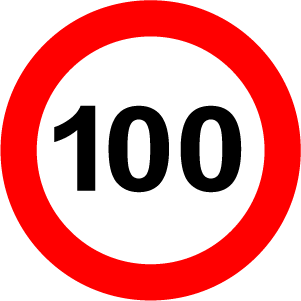
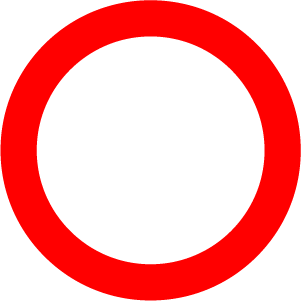
Multiple speeds in sli regular alert support

Changed region(s): [[0.598, 0.3289, 0.8073, 0.6578], [0.3588, 0.3289, 0.5681, 0.6578], [0.1794, 0.3289, 0.3289, 0.6578]]

diff --git a/main.qml b/main.qml
@@ -33,6 +33,22 @@ ApplicationWindow {
             [Alert.HMW_GR] = "  ",
             ]
 
+    property var sli_reg_arr: [      
+        [Alert.SLI_REG_10]  =  "10",
+        [Alert.SLI_REG_20]  =  "20",
+        [Alert.SLI_REG_30]  =  "30",
+        [Alert.SLI_REG_40]  =  "40",
+        [Alert.SLI_REG_50]  =  "50",
+        [Alert.SLI_REG_60]  =  "60",
+        [Alert.SLI_REG_70]  =  "70",
+        [Alert.SLI_REG_80]  =  "80",
+        [Alert.SLI_REG_90]  =  "90",
+        [Alert.SLI_REG_100] = "100",
+        [Alert.SLI_REG_110] = "110",
+        [Alert.SLI_REG_120] = "120",
+        [Alert.SLI_REG_130] = "130",
+        [Alert.SLI_REG_140] = "140",
+    ]
 
 
 
@@ -130,11 +146,23 @@ ApplicationWindow {
                     objectName: "ALERT_SLI_REGULAR"
                     property int layer_pri: 0
                     property int canEntityType: Alert.ALERT_SLI_REGULAR
+                    property int canEntityArg: Alert.SLI_REG_100
 
                     x: left_panel.width/8; width: left_panel.width*3/4;
                     fillMode: Image.PreserveAspectFit;
                     source:"qrc:/resources/EWAlerts/sli.png";
                     rotation: 0;
+
+                    Text {
+                        text: page.sli_reg_arr[parent.canEntityArg]
+                        font.family: "Arial"
+                        font.pointSize: 10
+                        font.bold: true
+                        color: "black"
+                        opacity: 1
+                        anchors.horizontalCenter: parent.horizontalCenter
+                        anchors.verticalCenter : parent.verticalCenter
+                    }
                 }
 
                 //>>>>>>>>>>>>>>>>>>>>>>>>>>>>>>>>>>>>>>>>>>>>>
@@ -302,12 +330,24 @@ ApplicationWindow {
                         objectName: "ALERT_SLI_REGULAR_MAIN"
                         property int layer_pri: 1
                         property int canEntityType: Alert.ALERT_SLI_REGULAR
+                        property int canEntityArg: Alert.SLI_REG_100
 
                         visible: false;
                         x: main_panel.width/8; y: 20; width: main_panel.width*3/4;
                         fillMode: Image.PreserveAspectFit;
                         source:"qrc:/resources/EWAlerts/sli.png";
                         rotation: 0;
+
+                        Text {
+                            text: page.sli_reg_arr[parent.canEntityArg]
+                            font.family: "Arial"
+                            font.pointSize: 40
+                            font.bold: true
+                            color: "black"
+                            opacity: 1
+                            anchors.horizontalCenter: parent.horizontalCenter
+                            anchors.verticalCenter : parent.verticalCenter
+                        }
 
 
                         Timer {

diff --git a/canmanager.cpp b/canmanager.cpp
@@ -313,48 +313,96 @@ void CanManager::beamStateParseAndProcess(struct can_frame * prev, struct can_fr
 
 }
 
-
-void CanManager::sliSingleStateParseAndProcess(struct can_frame * prev, struct can_frame * recv, quint8 signType, AlertTypes::EnAlert alert)
+void CanManager::sliStateParseAndProcess(struct can_frame * prev, struct can_frame * recv)
 {
-
+    //deactivation:
     bool is_sign_in_prev =  false;
     bool is_sign_in_recv =  false;
 
-    quint8 sign_byte_prev;
-    quint8 sign_byte_recv;
+    quint8 sign_prev;
+    quint8 sign_recv;
 
+    quint8 supp_prev;
+    quint8 supp_recv;
 
-    for (size_t i = 0; i < 4; i++)
+    size_t i;
+    size_t j;
+
+    //deactivation
+    for (i = 0; i < 4; i++)
     {
 
-        sign_byte_prev = prev->data[i*2];
-        sign_byte_recv = recv->data[i*2];
+        is_sign_in_recv = false;
 
-        //supp_byte = frame->data[1+i*2];
-
-        if (signType == sign_byte_prev)
+        for (j = 0; j < 4; j++)
         {
-          is_sign_in_prev = true;
+
+            sign_prev = prev->data[i*2];
+            sign_recv = recv->data[j*2];
+
+            supp_prev = prev->data[1+i*2];
+            supp_recv = recv->data[1+j*2];
+
+            if (sign_prev == sign_recv && supp_prev == supp_recv)
+            {
+                is_sign_in_recv = true;
+            }
+
         }
 
-        if (signType == sign_byte_recv)
+        if(!is_sign_in_recv)
         {
-          is_sign_in_recv = true;
+            //deactivate:
+            for (i = 0;i < sli_alerts_table_size; i++)
+            {
+                if(sign_prev == sli_alerts_table[i].hexcode)
+                {
+                   mydisplays->deactivate(sli_alerts_table[i].alert);
+                   i = sli_alerts_table_size;
+                }
+            }
+
         }
     }
 
-    if (is_sign_in_recv&&!is_sign_in_prev)
-    {
-        mydisplays->activate(alert);
-    }
 
-    if (is_sign_in_prev&&!is_sign_in_recv)
+
+    //activation:
+    for (j = 0; j < 4; j++)
     {
-         mydisplays->deactivate(alert);
+
+        is_sign_in_prev = false;
+
+        for (i = 0; i < 4; i++)
+        {
+
+            sign_prev = prev->data[i*2];
+            sign_recv = recv->data[j*2];
+
+            supp_prev = prev->data[1+i*2];
+            supp_recv = recv->data[1+j*2];
+
+            if (sign_prev == sign_recv && supp_prev == supp_recv)
+            {
+                is_sign_in_prev = true;
+            }
+
+        }
+
+        if(!is_sign_in_prev)
+        {
+            //activate:
+            for (i = 0;i < sli_alerts_table_size; i++)
+            {
+                if(sign_recv == sli_alerts_table[i].hexcode)
+                {
+                   mydisplays->activate(sli_alerts_table[i].alert, sli_alerts_table[i].value);
+                   i = sli_alerts_table_size;
+                }
+            }
+        }
     }
 }
-
-
 
 void CanManager::parse_frame(struct can_frame * frame)
 {
@@ -492,9 +540,7 @@ void CanManager::parse_frame(struct can_frame * frame)
 
         case can_id_sli:
 
-            sliSingleStateParseAndProcess(preframe,frame, 0x9, AlertTypes::ALERT_SLI_REGULAR);
-
-            sliSingleStateParseAndProcess(preframe,frame, 0xE, AlertTypes::ALERT_FORWARD);
+            sliStateParseAndProcess(preframe,frame);
 
             break;
     }

diff --git a/defs.h b/defs.h
@@ -1,7 +1,7 @@
 #ifndef DEFS_H
 #define DEFS_H
 
-#include <stdint.h>
+#include <alerttypes.h>
 
 #define CAN_MESSAGES_TYPES_NUM 2
 
@@ -33,7 +33,7 @@ can_id_right =  3,
 typedef struct can_id_values_table_row_s
 {
   can_id_t mnemonic;
-  uint32_t value;
+  quint32 value;
 } can_id_values_table_row_t;
 
 
@@ -103,6 +103,37 @@ enum HW_Warn_level_e
     HW_Alert  = 0x3,
 
 };
+
+typedef struct sli_alerts_table_row_s
+{
+   quint8 hexcode;
+   AlertTypes::EnAlert alert;
+   quint8 value;
+}
+sli_alerts_table_row_t;
+
+static const sli_alerts_table_row_t sli_alerts_table[] =
+{
+    {0x0, AlertTypes::ALERT_SLI_REGULAR, (quint8)AlertTypes::SLI_REG_10},
+    {0x1, AlertTypes::ALERT_SLI_REGULAR, (quint8)AlertTypes::SLI_REG_20},
+    {0x2, AlertTypes::ALERT_SLI_REGULAR, (quint8)AlertTypes::SLI_REG_30},
+    {0x3, AlertTypes::ALERT_SLI_REGULAR, (quint8)AlertTypes::SLI_REG_40},
+    {0x4, AlertTypes::ALERT_SLI_REGULAR, (quint8)AlertTypes::SLI_REG_50},
+    {0x5, AlertTypes::ALERT_SLI_REGULAR, (quint8)AlertTypes::SLI_REG_60},
+    {0x6, AlertTypes::ALERT_SLI_REGULAR, (quint8)AlertTypes::SLI_REG_70},
+    {0x7, AlertTypes::ALERT_SLI_REGULAR, (quint8)AlertTypes::SLI_REG_80},
+    {0x8, AlertTypes::ALERT_SLI_REGULAR, (quint8)AlertTypes::SLI_REG_90},
+    {0x9, AlertTypes::ALERT_SLI_REGULAR, (quint8)AlertTypes::SLI_REG_100},
+    {0xA, AlertTypes::ALERT_SLI_REGULAR, (quint8)AlertTypes::SLI_REG_110},
+    {0xB, AlertTypes::ALERT_SLI_REGULAR, (quint8)AlertTypes::SLI_REG_120},
+    {0xC, AlertTypes::ALERT_SLI_REGULAR, (quint8)AlertTypes::SLI_REG_130},
+    {0xD, AlertTypes::ALERT_SLI_REGULAR, (quint8)AlertTypes::SLI_REG_140},
+
+    {0xE, AlertTypes::ALERT_FORWARD    , (quint8)                   0x00},
+};
+
+static const size_t sli_alerts_table_size = sizeof(sli_alerts_table)/sizeof(sli_alerts_table_row_t);
+
 
 
 #endif // DEFS_H

diff --git a/alerttypes.h b/alerttypes.h
@@ -39,18 +39,22 @@ public:
 
     enum EnSliRegular
     {
-        SLI_REG_10 =  0x6,
-        SLI_REG_20 =  0x7,
-        SLI_REG_30 =  0x8,
-        SLI_REG_40 =  0x9,
-        SLI_REG_50 =  0xA,
-        SLI_REG_60 =  0xB,
-        SLI_REG_70 =  0xC,
-        SLI_REG_80 =  0xD,
-        SLI_REG_90 =  0xE,
-        SLI_REG_100 = 0xF,
+        SLI_REG_10 =  0x0,
+        SLI_REG_20 =  0x1,
+        SLI_REG_30 =  0x2,
+        SLI_REG_40 =  0x3,
+        SLI_REG_50 =  0x4,
+        SLI_REG_60 =  0x5,
+        SLI_REG_70 =  0x6,
+        SLI_REG_80 =  0x7,
+        SLI_REG_90 =  0x8,
+        SLI_REG_100 = 0x9,
+        SLI_REG_110 = 0xA,
+        SLI_REG_120 = 0xB,
+        SLI_REG_130 = 0xC,
+        SLI_REG_140 = 0xD,
     };
-    Q_ENUMS(EnRegular)
+    Q_ENUMS(EnSliRegular)
 
 
 

diff --git a/canmanager.h b/canmanager.h
@@ -68,7 +68,7 @@ private:
     qint32 alertStateParseAndCmp(struct can_frame * prev, struct can_frame * recv, quint32 byte, quint8 mask);
     void hmwStateParseAndProcess(struct can_frame * prev, struct can_frame * recv);
     void beamStateParseAndProcess(struct can_frame * prev, struct can_frame * recv);
-    void sliSingleStateParseAndProcess(struct can_frame * prev, struct can_frame * recv, quint8 signType, AlertTypes::EnAlert alert);
+    void sliStateParseAndProcess(struct can_frame * prev, struct can_frame * recv);
 
     void hmwStateParse(struct can_frame * frame, hmw_state_t * result);
 

diff --git a/rootedtreenode.h b/rootedtreenode.h
@@ -27,7 +27,7 @@ public:
     int getActivSem() {return activationSemaphore;}
     LayersPriorityQ* getChildren() {return children;}
 
-    const bool getMutexGroup() {return mutexGroup;}
+    bool getMutexGroup() {return mutexGroup;}
 
     void activate();
     void deactivate();
